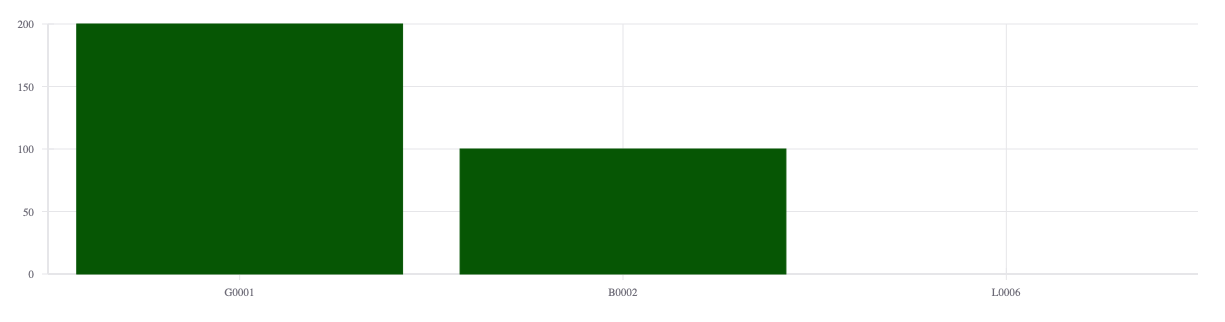
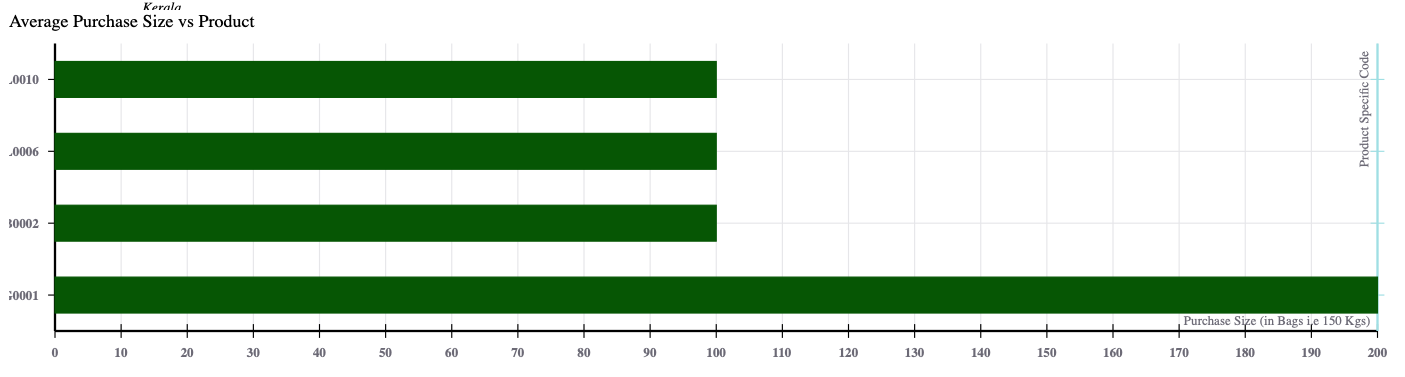
visualisations graphs working
- updated readme
- added yarn count vs inquiries
- added pie chart with existing bar graph in regions vs inquries
- styled all existing graphs

diff --git a/src/Components/Visualisations/State.js b/src/Components/Visualisations/State.js
@@ -3,40 +3,84 @@ import {
   XYPlot,
   VerticalGridLines,
   HorizontalGridLines,
+  VerticalBarSeries,
   YAxis,
   XAxis,
-  VerticalBarSeries,
+  RadialChart,
 } from "react-vis";
-import axios from 'axios';
+import axios from "axios";
 
 function State() {
-  const [data,setData] = React.useState()
-  const [loading, setLoading] = React.useState(true)
+  const [pieData, setPieData] = React.useState();
+  const [barData, setBarData] = React.useState();
+  const [loading, setLoading] = React.useState(true);
 
+  React.useEffect(() => {
+    axios
+      .get("http://localhost:4000/visualisations/state-to-inquiries-pie")
+      .then((response) => {
+        console.log("res data", response.data);
+        setPieData(response.data);
+        setLoading(false);
+      })
+      .catch((e) => {
+        console.log(e);
+      });
 
+    axios
+      .get("http://localhost:4000/visualisations/state-to-inquiries-bar")
+      .then((response) => {
+        console.log("res data", response.data);
+        setBarData(response.data);
+        setLoading(false);
+      })
+      .catch((e) => {
+        console.log(e);
+      });
+  }, []);
 
-React.useEffect(()=>{
-  axios.get("http://localhost:4000/visualisations/state-to-inquiries")
-  .then((response)=>{
-    console.log("res data",response.data)
-    setData(response.data)
-    setLoading(false)
+  return (
+    <div className="State">
+      {console.log(pieData)}
+      <div>Regions and Inquiries</div>
 
-  }).catch(e=>{
-    console.log(e)
-  })
-},[])
+      <XYPlot height={400} width={500} xType="ordinal">
+        <VerticalGridLines />
+        <HorizontalGridLines />
+        <XAxis
+          title="Region"
+          style={{
+            line: { stroke: "#4169E1" },
+            ticks: { stroke: "#ADDDE1" },
+            text: { stroke: "none", fill: "#6b6b76", fontWeight: 600 },
+            title: { fill: "#6b6b76",fontWeight:600 }
+          }}
+        />
+        <YAxis
+          title="Interest/Inquiries"
+          style={{
+            line: { stroke: "#4169E1" },
+            ticks: { stroke: "#ADDDE1" },
+            text: { stroke: "none", fill: "#6b6b76", fontWeight: 600 },
+            title: { fill: "#6b6b76",fontWeight:600}
+          }}
+        />
+        {!loading && (
+          <VerticalBarSeries barWidth={0.28} color="#FF7F50" data={barData} />
+        )}
+      </XYPlot>
 
-  console.log("hello", data)
-  return (<div className="State">
-    <XYPlot height={300} width={1200} color="#ff8000" xType="ordinal">
-      <VerticalGridLines />
-      <HorizontalGridLines />
-      <XAxis />
-      <YAxis />
-      {console.log("dataPdtInq:",data)}
-      {!loading && <VerticalBarSeries data={data} />}
-    </XYPlot>
+      {!loading && (
+        <RadialChart
+          showLabels={true}
+          data={pieData}
+          width={300}
+          height={300}
+          labelsStyle={{
+            stroke:"none", fill:"black", fontSize: 12, fontStyle:"italic"
+          }}
+        />
+      )}
     </div>
   );
 }

diff --git a/src/Components/Visualisations/Inq.js b/src/Components/Visualisations/Inq.js
@@ -7,37 +7,48 @@ import {
   XAxis,
   LineSeries,
 } from "react-vis";
-import axios from 'axios';
+import axios from "axios";
 
 function Inq() {
-  const [data,setData] = React.useState()
-  const [loading, setLoading] = React.useState(true)
+  const [data, setData] = React.useState();
+  const [loading, setLoading] = React.useState(true);
 
+  React.useEffect(() => {
+    axios
+      .get("http://localhost:4000/visualisations/product-to-inquiry-count")
+      .then((response) => {
+        console.log("res data", response.data);
+        setData(response.data);
+        setLoading(false);
+      })
+      .catch((e) => {
+        console.log(e);
+      });
+  }, []);
 
+  console.log("hello", data);
 
-React.useEffect(()=>{
-  axios.get("http://localhost:4000/visualisations/product-to-inquiry-count")
-  .then((response)=>{
-    console.log("res data",response.data)
-    setData(response.data)
-    setLoading(false)
-
-  }).catch(e=>{
-    console.log(e)
-  })
-},[])
-
-  console.log("hello", data)
-  
-  return (<div className="Inq">
-    <XYPlot height={400} width={500} xType="ordinal">
-      <VerticalGridLines />
-      <HorizontalGridLines />
-      <XAxis />
-      <YAxis />
-      {console.log("dataPdtInq:",data)}
-      {!loading && <LineSeries color="#0080ff" data={data} />}
-    </XYPlot>
+  return (
+    <div className="Inq">
+      <div>Overall Inquiry data vs Products</div>
+      <XYPlot title="Hello" height={400} width={500} xType="ordinal">
+        <VerticalGridLines />
+        <HorizontalGridLines />
+        <XAxis title="Product Specific Code" style={{
+            line: { stroke: "#FF7F50" },
+            ticks: { stroke: "#ADDDE1" },
+            text: { stroke: "none", fill: "#6b6b76", fontWeight: 600 },
+            title: { fill: "#6b6b76",fontWeight:600}
+          }} />
+        <YAxis title="Inquires" style={{
+            line: { stroke: "#FF7F50" },
+            ticks: { stroke: "#ADDDE1" },
+            text: { stroke: "none", fill: "#6b6b76", fontWeight: 600 },
+            title: { fill: "#6b6b76",fontWeight:600}
+          }} />
+        {console.log("dataPdtInq:", data)}
+        {!loading && <LineSeries color="#0080ff" data={data} />}
+      </XYPlot>
     </div>
   );
 }

diff --git a/src/Components/Visualisations/Count.js b/src/Components/Visualisations/Count.js
@@ -1,0 +1,56 @@
+import React from "react";
+import {
+  XYPlot,
+  VerticalGridLines,
+  HorizontalGridLines,
+  YAxis,
+  XAxis,
+  VerticalBarSeries,
+} from "react-vis";
+import axios from 'axios';
+
+
+//  Visualize which count got most inquires
+
+function Count() {
+  const [data,setData] = React.useState()
+  const [loading, setLoading] = React.useState(true)
+
+
+
+React.useEffect(()=>{
+  axios.get("http://localhost:4000/visualisations/count-to-inquiries")
+  .then((response)=>{
+    console.log("res data",response.data)
+    setData(response.data)
+    setLoading(false)
+
+  }).catch(e=>{
+    console.log(e)
+  })
+},[])
+
+  return (<div className="Count">
+  <div>Yarn Count vs Inquires</div>
+    <XYPlot height={300} width={700} color="#00000" xType="ordinal">
+      <VerticalGridLines />
+      <HorizontalGridLines />
+      <XAxis title="Yarn Count" style={{
+            line: { stroke: "#285104" },
+            ticks: { stroke: "#ADDDE1" },
+            text: { stroke: "none", fill: "#6b6b76", fontWeight: 600 },
+            title: { fill: "#6b6b76",fontWeight:600}
+          }} />
+      <YAxis title="Inquires" style={{
+            line: { stroke: "#285104" },
+            ticks: { stroke: "#ADDDE1" },
+            text: { stroke: "none", fill: "#6b6b76", fontWeight: 600 },
+            title: { fill: "#6b6b76",fontWeight:600}
+          }} />
+      {!loading && <VerticalBarSeries barWidth={0.4} data={data} />}
+    </XYPlot>
+    </div>
+  );
+}
+
+export default Count;

diff --git a/src/Components/Visualisations/Avg.js b/src/Components/Visualisations/Avg.js
@@ -5,7 +5,7 @@ import {
   HorizontalGridLines,
   YAxis,
   XAxis,
-  VerticalBarSeries,
+  HorizontalBarSeries,
 } from "react-vis";
 import axios from 'axios';
 
@@ -31,12 +31,26 @@ React.useEffect(()=>{
 },[])
 
   return (<div className="Avg">
-    <XYPlot height={300} width={1200} color="#285104" xType="ordinal">
+  <div>Average Purchase Size vs Product</div>
+    <XYPlot height={300} width={1200} color="#285104" yType="ordinal">
       <VerticalGridLines />
       <HorizontalGridLines />
-      <XAxis />
-      <YAxis />
-      {!loading && <VerticalBarSeries data={data} />}
+      <XAxis title="Purchase Size (in Bags i.e 150 Kgs)" style={{
+      line: {stroke: '#000000'},
+      ticks: {stroke: '#ADDDE1'},
+      text: {stroke: 'none', fill: '#6b6b76', fontWeight: 1000}
+}}/>
+      <YAxis style={{
+      line: {stroke: '#000000'},
+      ticks: {stroke: '#ADDDE1'},
+      text: {stroke: 'none', fill: '#6b6b76', fontWeight: 1000}
+}}/>
+      <YAxis orientation="right" title="Product Specific Code" style={{
+      line: {stroke: '#ADDDE1'},
+      ticks: {stroke: '#ADDDE1'},
+      text: {stroke: 'none', fill: '#6b6b76', fontWeight: 1000}
+}}/>
+      {!loading && <HorizontalBarSeries barWidth={0.5} data={data} />}
     </XYPlot>
     </div>
   );

diff --git a/src/Components/App.jsx b/src/Components/App.jsx
@@ -4,6 +4,7 @@ import SignIn from "./Login/Login"
 import Inq from "./Visualisations/Inq"
 import State from "./Visualisations/State"
 import Avg from "./Visualisations/Avg"
+import Count from "./Visualisations/Count"
 import '../../node_modules/react-vis/dist/style.css';
 // import '../node_modules/react-vis/dist/style.css';
 import {BrowserRouter as Router,Switch, Route} from "react-router-dom"
@@ -24,6 +25,7 @@ function App() {
           <Inq/>
           <State/>
           <Avg/>
+          <Count/>
         </div>
         </Route>
       </Switch>

diff --git a/README.md b/README.md
@@ -24,13 +24,20 @@ Product Codes against Number of Inquiries
 
 Inquiries and Regions
 
-![vis-2](public/img/vis-2.png)
+![vis-21](public/img/vis-2.png)
+
+![vis-22](public/img/pie.png)
 
 Products Average Purchase Size
 
 ![vis-3](public/img/vis-3.png)
 
+Yarn Count and Inquiry
+
+![vis-4](public/img/vis-4.png)
+
 ### Deployment
 
 Find the relaxant backend repository [here](https://github.com/sanjitk7/yarnTradingCompanyBackendv1)
 Backend is hosted in a Heroku Server - https://sanjit-yarn-trading-backend.herokuapp.com
+
